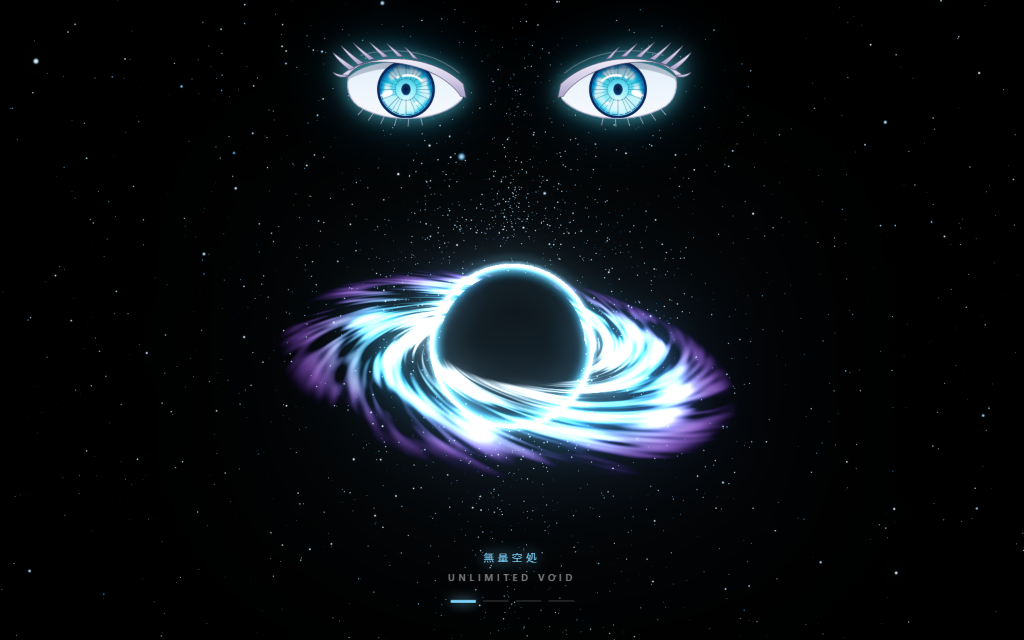
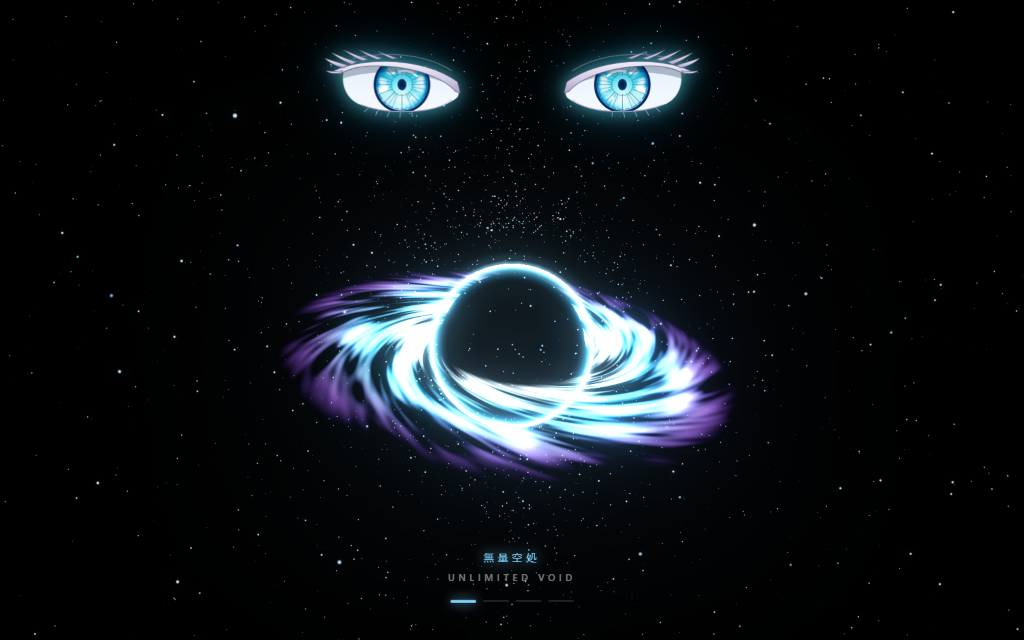
refactor: refine Gojo Six Eyes anatomy and side-swept eyelashes

diff --git a/index.html b/index.html
@@ -79,18 +79,18 @@
     }
 
     .eye-svg {
-      width: clamp(128px, 21vw, 188px);
+      width: clamp(134px, 22vw, 198px);
       height: auto;
       overflow: visible;
     }
     .eye-svg.right { transform: scaleX(-1); }
 
     .iris-nebula {
-      transform-origin: 108px 70px;
-      animation: nebulaDrift 20s linear infinite;
+      transform-origin: 112px 62px;
+      animation: nebulaDrift 22s linear infinite;
     }
-    .eyelid-top { transform-origin: 110px 0px; transform: scaleY(0); }
-    .eyelid-bottom { transform-origin: 110px 148px; transform: scaleY(0); }
+    .eyelid-top { transform-origin: 112px 0px; transform: scaleY(0); }
+    .eyelid-bottom { transform-origin: 112px 132px; transform: scaleY(0); }
     body.blink-run .eyelid-top { animation: blinkTop 0.36s cubic-bezier(0.45, 0, 0.55, 1) forwards; }
     body.blink-run .eyelid-bottom { animation: blinkBottom 0.36s cubic-bezier(0.45, 0, 0.55, 1) forwards; }
 
@@ -238,152 +238,149 @@
         <feGaussianBlur in="warped" stdDeviation="1.4" />
       </filter>
 
-      <!-- Reusable 24 fine radial iris fibers centered at (108, 70) -->
-      <g id="six-iris-fibers" stroke="#0b3b6e" stroke-linecap="round" opacity="0.52">
-        <line x1="108" y1="55" x2="108" y2="34" stroke-width="1.05" />
-        <line x1="108" y1="85" x2="108" y2="106" stroke-width="1.05" />
-        <line x1="93"  y1="70" x2="72"  y2="70" stroke-width="0.95" />
-        <line x1="123" y1="70" x2="144" y2="70" stroke-width="0.95" />
-        <line x1="97"  y1="59" x2="81"  y2="43" stroke-width="0.95" />
-        <line x1="119" y1="59" x2="135" y2="43" stroke-width="0.95" />
-        <line x1="97"  y1="81" x2="81"  y2="97" stroke-width="0.95" />
-        <line x1="119" y1="81" x2="135" y2="97" stroke-width="0.95" />
-        <line x1="102" y1="56" x2="94"  y2="36" stroke-width="0.72" />
-        <line x1="114" y1="56" x2="122" y2="36" stroke-width="0.72" />
-        <line x1="102" y1="84" x2="94"  y2="104" stroke-width="0.72" />
-        <line x1="114" y1="84" x2="122" y2="104" stroke-width="0.72" />
-        <line x1="94"  y1="64" x2="74"  y2="56" stroke-width="0.72" />
-        <line x1="122" y1="64" x2="142" y2="56" stroke-width="0.72" />
-        <line x1="94"  y1="76" x2="74"  y2="84" stroke-width="0.72" />
-        <line x1="122" y1="76" x2="142" y2="84" stroke-width="0.72" />
-        <line x1="99"  y1="57" x2="87"  y2="39" stroke-width="0.65" />
-        <line x1="117" y1="57" x2="129" y2="39" stroke-width="0.65" />
-        <line x1="99"  y1="83" x2="87"  y2="101" stroke-width="0.65" />
-        <line x1="117" y1="83" x2="129" y2="101" stroke-width="0.65" />
-        <line x1="93"  y1="67" x2="72"  y2="63" stroke-width="0.6" />
-        <line x1="123" y1="67" x2="144" y2="63" stroke-width="0.6" />
-        <line x1="93"  y1="73" x2="72"  y2="77" stroke-width="0.6" />
-        <line x1="123" y1="73" x2="144" y2="77" stroke-width="0.6" />
+      <!-- Reusable 24 fine radial iris fibers centered at (112, 62) -->
+      <g id="six-iris-fibers" stroke="#0b3b6e" stroke-linecap="round" opacity="0.5">
+        <line x1="112" y1="48" x2="112" y2="27" stroke-width="1.0" />
+        <line x1="112" y1="76" x2="112" y2="97" stroke-width="1.0" />
+        <line x1="98"  y1="62" x2="77"  y2="62" stroke-width="0.9" />
+        <line x1="126" y1="62" x2="147" y2="62" stroke-width="0.9" />
+        <line x1="102" y1="52" x2="86"  y2="36" stroke-width="0.9" />
+        <line x1="122" y1="52" x2="138" y2="36" stroke-width="0.9" />
+        <line x1="102" y1="72" x2="86"  y2="88" stroke-width="0.9" />
+        <line x1="122" y1="72" x2="138" y2="88" stroke-width="0.9" />
+        <line x1="106" y1="49" x2="98"  y2="29" stroke-width="0.7" />
+        <line x1="118" y1="49" x2="126" y2="29" stroke-width="0.7" />
+        <line x1="106" y1="75" x2="98"  y2="95" stroke-width="0.7" />
+        <line x1="118" y1="75" x2="126" y2="95" stroke-width="0.7" />
+        <line x1="99"  y1="56" x2="79"  y2="48" stroke-width="0.7" />
+        <line x1="125" y1="56" x2="145" y2="48" stroke-width="0.7" />
+        <line x1="99"  y1="68" x2="79"  y2="76" stroke-width="0.7" />
+        <line x1="125" y1="68" x2="145" y2="76" stroke-width="0.7" />
+        <line x1="104" y1="50" x2="92"  y2="32" stroke-width="0.6" />
+        <line x1="120" y1="50" x2="132" y2="32" stroke-width="0.6" />
+        <line x1="104" y1="74" x2="92"  y2="92" stroke-width="0.6" />
+        <line x1="120" y1="74" x2="132" y2="92" stroke-width="0.6" />
+        <line x1="98"  y1="59" x2="77"  y2="55" stroke-width="0.6" />
+        <line x1="126" y1="59" x2="147" y2="55" stroke-width="0.6" />
+        <line x1="98"  y1="65" x2="77"  y2="69" stroke-width="0.6" />
+        <line x1="126" y1="65" x2="147" y2="69" stroke-width="0.6" />
       </g>
     </defs>
   </svg>
 
   <div class="six-eyes-overlay" id="sixEyesOverlay" aria-hidden="true">
-    <!-- LEFT EYE (Tall, expressive, gently arched MAPPA Gojo silhouette) -->
-    <svg class="eye-svg left" viewBox="0 0 220 148" xmlns="http://www.w3.org/2000/svg">
+    <!-- LEFT EYE (Calm, confident MAPPA male anime eye: tucked upper iris, sleek brow, sweeping lashes) -->
+    <svg class="eye-svg left" viewBox="0 0 228 132" xmlns="http://www.w3.org/2000/svg">
       <defs>
+        <!-- Natural anime eye opening: flatter sleek upper lid tucking top of iris, soft open lower curve -->
         <clipPath id="gojo-clip-left">
-          <path d="M 24,52 C 56,22 138,20 186,62 C 192,68 194,76 190,84 C 156,120 78,120 38,94 C 24,84 20,66 24,52 Z" />
+          <path d="M 28,44 C 66,28 140,28 188,58 C 194,63 196,72 192,80 C 166,104 92,106 50,90 C 32,82 24,62 28,44 Z" />
         </clipPath>
         <clipPath id="iris-clip-left">
-          <circle cx="108" cy="70" r="41" />
+          <circle cx="112" cy="62" r="39.5" />
         </clipPath>
       </defs>
 
-      <!-- Delicate double-eyelid fold arching cleanly over the lid -->
-      <path d="M 42,20 C 90,6 148,14 186,46" fill="none" stroke="rgba(216,210,236,0.36)" stroke-width="1.5" stroke-linecap="round" />
+      <!-- Subtle double-eyelid crease hugging the upper lid -->
+      <path d="M 42,24 C 86,14 144,16 184,42" fill="none" stroke="rgba(216,210,236,0.34)" stroke-width="1.35" stroke-linecap="round" />
 
       <g id="gojo-left-interior" clip-path="url(#gojo-clip-left)">
-        <!-- Luminous Sclera -->
-        <rect x="0" y="0" width="220" height="148" fill="url(#gojo-sclera)" />
+        <!-- Cool-shaded luminous sclera -->
+        <rect x="0" y="0" width="228" height="132" fill="url(#gojo-sclera)" />
 
-        <!-- MAPPA SIX EYES IRIS -->
+        <!-- MAPPA SIX EYES IRIS (top ~15% tucked naturally under upper lid for calm Gojo stare) -->
         <g clip-path="url(#iris-clip-left)">
-          <circle cx="108" cy="70" r="41" fill="url(#six-iris-base)" />
+          <circle cx="112" cy="62" r="39.5" fill="url(#six-iris-base)" />
 
           <!-- Billowing sunlit white cloud ring -->
           <g class="iris-nebula" filter="url(#iris-cloud-filter)" opacity="0.9">
-            <circle cx="108" cy="70" r="28" fill="none" stroke="#ffffff" stroke-width="10" stroke-dasharray="24 9 15 7 22 8" />
-            <ellipse cx="108" cy="98" rx="24" ry="10" fill="#ffffff" />
-            <ellipse cx="86"  cy="54" rx="12" ry="8" transform="rotate(-30 86 54)" fill="#e0faff" />
-            <ellipse cx="132" cy="56" rx="11" ry="7" transform="rotate(25 132 56)" fill="#ffffff" />
+            <circle cx="112" cy="62" r="27" fill="none" stroke="#ffffff" stroke-width="9.5" stroke-dasharray="23 9 15 7 21 8" />
+            <ellipse cx="112" cy="89" rx="23" ry="9" fill="#ffffff" />
+            <ellipse cx="92"  cy="47" rx="11" ry="7" transform="rotate(-28 92 47)" fill="#e0faff" />
+            <ellipse cx="134" cy="49" rx="10" ry="6" transform="rotate(24 134 49)" fill="#ffffff" />
           </g>
 
-          <circle cx="108" cy="70" r="41" fill="url(#six-iris-glow)" />
+          <circle cx="112" cy="62" r="39.5" fill="url(#six-iris-glow)" />
           <use href="#six-iris-fibers" />
-          <circle cx="108" cy="70" r="16" fill="none" stroke="rgba(12, 74, 110, 0.34)" stroke-width="1.2" />
+          <circle cx="112" cy="62" r="15.5" fill="none" stroke="rgba(12, 74, 110, 0.34)" stroke-width="1.15" />
 
           <!-- Deep navy slightly-oval pupil -->
-          <ellipse cx="108" cy="70" rx="6.8" ry="8.6" fill="url(#six-pupil-grad)" />
+          <ellipse cx="112" cy="62" rx="6.4" ry="8.2" fill="url(#six-pupil-grad)" />
 
           <!-- Upper iris shadow -->
-          <circle cx="108" cy="70" r="41" fill="url(#six-iris-top-shade)" />
+          <circle cx="112" cy="62" r="39.5" fill="url(#six-iris-top-shade)" />
 
           <!-- Crisp MAPPA white specular highlights -->
-          <ellipse cx="81" cy="76" rx="8.2" ry="4.0" transform="rotate(-24 81 76)" fill="#ffffff" />
-          <path d="M 104,50 Q 120,47 131,57" fill="none" stroke="#ffffff" stroke-width="3.6" stroke-linecap="round" opacity="0.95" />
-          <circle cx="96"  cy="52" r="2.3" fill="#ffffff" opacity="0.9" />
-          <circle cx="123" cy="90" r="2.6" fill="#ffffff" opacity="0.88" />
+          <ellipse cx="86" cy="68" rx="7.6" ry="3.7" transform="rotate(-24 86 68)" fill="#ffffff" />
+          <path d="M 108,43 Q 123,40 133,49" fill="none" stroke="#ffffff" stroke-width="3.3" stroke-linecap="round" opacity="0.95" />
+          <circle cx="100" cy="45" r="2.1" fill="#ffffff" opacity="0.9" />
+          <circle cx="126" cy="81" r="2.4" fill="#ffffff" opacity="0.86" />
         </g>
 
         <!-- Thick deep-navy outer limbal ring -->
-        <circle cx="108" cy="70" r="40.5" fill="none" stroke="#0a2859" stroke-width="3.6" />
-        <circle cx="108" cy="70" r="37" fill="none" stroke="#164e8a" stroke-width="1.3" stroke-dasharray="6 3 9 2" opacity="0.72" />
+        <circle cx="112" cy="62" r="39" fill="none" stroke="#0a2859" stroke-width="3.4" />
+        <circle cx="112" cy="62" r="35.6" fill="none" stroke="#164e8a" stroke-width="1.2" stroke-dasharray="6 3 9 2" opacity="0.7" />
 
-        <!-- Soft upper eyelid cast shadow -->
-        <path d="M 14,42 C 56,12 142,10 198,56 L 198,74 C 142,30 56,30 14,62 Z" fill="rgba(15, 32, 66, 0.24)" />
+        <!-- Soft upper eyelid cast shadow across sclera & top of iris -->
+        <path d="M 18,34 C 66,18 144,18 200,52 L 200,72 C 144,38 66,38 18,56 Z" fill="rgba(12, 28, 60, 0.28)" />
 
         <!-- Blink shutters -->
-        <rect class="eyelid-top" x="0" y="0" width="220" height="78" fill="#000000" />
-        <rect class="eyelid-bottom" x="0" y="70" width="220" height="78" fill="#000000" />
+        <rect class="eyelid-top" x="0" y="0" width="228" height="72" fill="#000000" />
+        <rect class="eyelid-bottom" x="0" y="60" width="228" height="72" fill="#000000" />
       </g>
 
-      <!-- GOJO'S FEATHERY LAVENDER-SILVER UPPER EYELASHES -->
-      <g fill="url(#lash-grad)" stroke="#5b5475" stroke-width="0.85" stroke-linejoin="round">
-        <!-- High, graceful upper lash arch -->
-        <path d="M 12,50 C 52,16 142,14 192,62 L 196,82 L 188,80 C 176,60 134,28 64,30 C 42,31 28,41 22,52 Z" />
-        <!-- Lush feathery lash tufts sweeping upward & outward -->
-        <path d="M 26,42 C 15,34 6,25 1,16 C 11,23 20,30 33,38 Z" />
-        <path d="M 38,34 C 27,24 19,15 13,6 C 23,14 32,22 46,31 Z" />
-        <path d="M 54,27 C 44,17 36,9 31,2 C 41,10 50,17 62,25 Z" />
-        <path d="M 74,23 C 66,14 59,7 55,1 C 64,8 72,14 82,22 Z" />
-        <path d="M 96,22 C 89,14 84,8 80,3 C 88,9 95,14 104,22 Z" />
-        <path d="M 118,24 C 113,17 109,12 106,8 C 113,13 118,18 126,26 Z" />
-        <!-- Sleek outer wing flick -->
-        <path d="M 19,52 C 11,53 5,50 1,45 C 8,48 14,49 23,49 Z" />
+      <!-- SLEEK SWEEPING LAVENDER-SILVER UPPER EYELASHES (Flowing outward along the lid, NOT sticking straight up) -->
+      <g fill="url(#lash-grad)" stroke="#5b5475" stroke-width="0.75" stroke-linejoin="round">
+        <!-- Main tapered upper lash line -->
+        <path d="M 14,42 C 58,22 142,22 192,58 L 196,74 L 189,72 C 176,56 136,34 68,35 C 44,36 30,42 22,47 Z" />
+        <!-- Sweeping outer side-swept lash wisps (horizontal-diagonal flow like MAPPA) -->
+        <path d="M 28,38 C 16,35 7,30 1,24 C 10,27 20,30 34,34 Z" />
+        <path d="M 40,33 C 28,28 18,22 11,16 C 21,20 32,25 47,29 Z" />
+        <path d="M 56,28 C 44,23 35,17 28,12 C 38,16 49,21 63,25 Z" />
+        <path d="M 76,26 C 65,21 57,17 51,12 C 60,16 70,20 84,24 Z" />
+        <path d="M 98,25 C 89,21 82,17 77,14 C 85,17 94,20 106,24 Z" />
+        <!-- Subtle outer tail flick -->
+        <path d="M 24,45 C 15,47 8,46 3,42 C 10,43 17,43 27,42 Z" />
       </g>
 
-      <!-- Soft rounded lower eyelid contour + delicate feathery lower lashes -->
-      <path d="M 190,84 C 156,120 78,120 38,94 C 24,84 20,66 24,52"
-            fill="none" stroke="#b9b2d1" stroke-width="1.7" stroke-linejoin="round" />
-      <g stroke="#c9c2e0" stroke-width="1.2" stroke-linecap="round" opacity="0.8">
-        <path d="M 46,98 L 38,107" />
-        <path d="M 60,105 L 53,115" />
-        <path d="M 76,110 L 71,120" />
-        <path d="M 94,113 L 91,123" />
-        <path d="M 112,114 L 111,124" />
-        <path d="M 130,113 L 132,122" />
+      <!-- Open anime lower lid (delicate curve only under the center-bottom, fading cleanly at sides) -->
+      <path d="M 184,84 C 158,104 94,106 54,91"
+            fill="none" stroke="#b9b2d1" stroke-width="1.5" stroke-linecap="round" opacity="0.85" />
+      <g stroke="#c9c2e0" stroke-width="1.05" stroke-linecap="round" opacity="0.7">
+        <path d="M 64,95 L 58,101" />
+        <path d="M 78,99 L 74,106" />
+        <path d="M 94,101 L 91,108" />
+        <path d="M 110,102 L 109,109" />
+        <path d="M 126,101 L 127,108" />
       </g>
     </svg>
 
     <!-- RIGHT EYE (Mirrored) -->
-    <svg class="eye-svg right" viewBox="0 0 220 148" xmlns="http://www.w3.org/2000/svg">
+    <svg class="eye-svg right" viewBox="0 0 228 132" xmlns="http://www.w3.org/2000/svg">
       <defs>
         <clipPath id="gojo-clip-right">
-          <path d="M 24,52 C 56,22 138,20 186,62 C 192,68 194,76 190,84 C 156,120 78,120 38,94 C 24,84 20,66 24,52 Z" />
+          <path d="M 28,44 C 66,28 140,28 188,58 C 194,63 196,72 192,80 C 166,104 92,106 50,90 C 32,82 24,62 28,44 Z" />
         </clipPath>
       </defs>
-      <path d="M 42,20 C 90,6 148,14 186,46" fill="none" stroke="rgba(216,210,236,0.36)" stroke-width="1.5" stroke-linecap="round" />
+      <path d="M 42,24 C 86,14 144,16 184,42" fill="none" stroke="rgba(216,210,236,0.34)" stroke-width="1.35" stroke-linecap="round" />
       <g id="gojo-right-interior" clip-path="url(#gojo-clip-right)"></g>
-      <g fill="url(#lash-grad)" stroke="#5b5475" stroke-width="0.85" stroke-linejoin="round">
-        <path d="M 12,50 C 52,16 142,14 192,62 L 196,82 L 188,80 C 176,60 134,28 64,30 C 42,31 28,41 22,52 Z" />
-        <path d="M 26,42 C 15,34 6,25 1,16 C 11,23 20,30 33,38 Z" />
-        <path d="M 38,34 C 27,24 19,15 13,6 C 23,14 32,22 46,31 Z" />
-        <path d="M 54,27 C 44,17 36,9 31,2 C 41,10 50,17 62,25 Z" />
-        <path d="M 74,23 C 66,14 59,7 55,1 C 64,8 72,14 82,22 Z" />
-        <path d="M 96,22 C 89,14 84,8 80,3 C 88,9 95,14 104,22 Z" />
-        <path d="M 118,24 C 113,17 109,12 106,8 C 113,13 118,18 126,26 Z" />
-        <path d="M 19,52 C 11,53 5,50 1,45 C 8,48 14,49 23,49 Z" />
+      <g fill="url(#lash-grad)" stroke="#5b5475" stroke-width="0.75" stroke-linejoin="round">
+        <path d="M 14,42 C 58,22 142,22 192,58 L 196,74 L 189,72 C 176,56 136,34 68,35 C 44,36 30,42 22,47 Z" />
+        <path d="M 28,38 C 16,35 7,30 1,24 C 10,27 20,30 34,34 Z" />
+        <path d="M 40,33 C 28,28 18,22 11,16 C 21,20 32,25 47,29 Z" />
+        <path d="M 56,28 C 44,23 35,17 28,12 C 38,16 49,21 63,25 Z" />
+        <path d="M 76,26 C 65,21 57,17 51,12 C 60,16 70,20 84,24 Z" />
+        <path d="M 98,25 C 89,21 82,17 77,14 C 85,17 94,20 106,24 Z" />
+        <path d="M 24,45 C 15,47 8,46 3,42 C 10,43 17,43 27,42 Z" />
       </g>
-      <path d="M 190,84 C 156,120 78,120 38,94 C 24,84 20,66 24,52"
-            fill="none" stroke="#b9b2d1" stroke-width="1.7" stroke-linejoin="round" />
-      <g stroke="#c9c2e0" stroke-width="1.2" stroke-linecap="round" opacity="0.8">
-        <path d="M 46,98 L 38,107" />
-        <path d="M 60,105 L 53,115" />
-        <path d="M 76,110 L 71,120" />
-        <path d="M 94,113 L 91,123" />
-        <path d="M 112,114 L 111,124" />
-        <path d="M 130,113 L 132,122" />
+      <path d="M 184,84 C 158,104 94,106 54,91"
+            fill="none" stroke="#b9b2d1" stroke-width="1.5" stroke-linecap="round" opacity="0.85" />
+      <g stroke="#c9c2e0" stroke-width="1.05" stroke-linecap="round" opacity="0.7">
+        <path d="M 64,95 L 58,101" />
+        <path d="M 78,99 L 74,106" />
+        <path d="M 94,101 L 91,108" />
+        <path d="M 110,102 L 109,109" />
+        <path d="M 126,101 L 127,108" />
       </g>
     </svg>
   </div>
